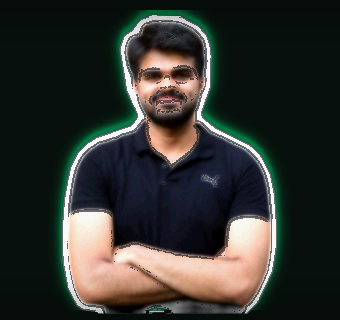
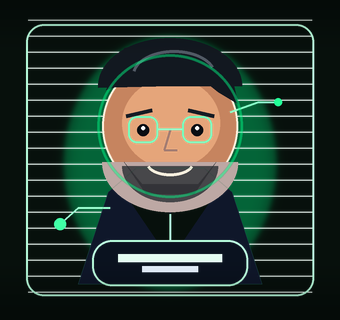
Changes by Yudhveer 5

diff --git a/scripts/generate_terminal.py b/scripts/generate_terminal.py
@@ -13,7 +13,7 @@ from io import BytesIO
 from pathlib import Path
 
 import numpy as np
-from PIL import Image, ImageChops, ImageEnhance, ImageFilter, ImageOps
+from PIL import Image, ImageChops, ImageDraw, ImageEnhance, ImageFilter, ImageOps
 
 
 ROOT = Path(__file__).resolve().parents[1]
@@ -146,81 +146,94 @@ def crop_to_ascii_portrait(image: Image.Image) -> Image.Image:
     return image.crop(box)
 
 
-def load_avatar_source() -> Image.Image:
-    if AVATAR_SOURCE_PATH.exists():
-        return Image.open(AVATAR_SOURCE_PATH).convert("RGBA")
-    return load_photo(IMAGE_PATH)
+def make_terminal_portrait() -> Image.Image:
+    """Draw a fictional illustrated avatar instead of reusing the real photo."""
+    scale = 3
+    canvas = Image.new("RGBA", (340 * scale, 320 * scale), (7, 16, 12, 255))
 
+    def box(values: tuple[int, int, int, int]) -> tuple[int, int, int, int]:
+        return tuple(value * scale for value in values)
 
-def remove_flat_background(image: Image.Image) -> Image.Image:
-    rgb = image.convert("RGB")
-    arr = np.asarray(rgb).astype(np.int16)
-    corners = np.array(
-        [
-            arr[0, 0],
-            arr[0, -1],
-            arr[-1, 0],
-            arr[-1, -1],
-        ]
-    )
-    key = np.median(corners, axis=0)
-    distance = np.sqrt(((arr - key) ** 2).sum(axis=2))
-    alpha = np.where(distance < 55, 0, 255).astype(np.uint8)
-    alpha_img = Image.fromarray(alpha, "L")
-    alpha_img = alpha_img.filter(ImageFilter.MedianFilter(5))
-    alpha_img = alpha_img.filter(ImageFilter.GaussianBlur(0.8))
+    def pts(values: list[tuple[int, int]]) -> list[tuple[int, int]]:
+        return [(x * scale, y * scale) for x, y in values]
 
-    out = image.copy()
-    out.putalpha(alpha_img)
-    return crop_to_subject(out)
-
-
-def stylize_avatar(subject: Image.Image) -> Image.Image:
-    alpha = subject.getchannel("A")
-    rgb = subject.convert("RGB")
-    smooth = rgb.filter(ImageFilter.SMOOTH_MORE).filter(ImageFilter.SMOOTH_MORE)
-    smooth = ImageEnhance.Color(smooth).enhance(1.15)
-    smooth = ImageEnhance.Contrast(smooth).enhance(1.12)
-    poster = ImageOps.posterize(smooth, 5).convert("RGBA")
-
-    edges = smooth.convert("L").filter(ImageFilter.FIND_EDGES)
-    edges = ImageOps.autocontrast(edges).point(lambda value: 150 if value > 42 else 0)
-    edge_layer = Image.new("RGBA", subject.size, (5, 12, 18, 0))
-    edge_layer.putalpha(edges)
-
-    poster.putalpha(alpha)
-    avatar = Image.alpha_composite(poster, edge_layer)
-    avatar.putalpha(alpha)
-    return avatar
-
-
-def make_terminal_portrait(image: Image.Image) -> Image.Image:
-    subject = remove_flat_background(image)
-    subject = ImageOps.contain(subject, (300, 300), Image.Resampling.LANCZOS)
-    subject = stylize_avatar(subject)
-
-    canvas = Image.new("RGBA", (340, 320), (7, 16, 12, 255))
-    for radius, opacity in ((120, 35), (70, 45), (35, 55)):
-        glow = Image.new("RGBA", canvas.size, (0, 255, 136, 0))
-        alpha = Image.new("L", subject.size, 0)
-        alpha.paste(subject.getchannel("A"))
-        alpha = alpha.filter(ImageFilter.GaussianBlur(radius / 16))
-        glow_subject = Image.new("RGBA", subject.size, (0, 255, 136, opacity))
-        glow_subject.putalpha(alpha.point(lambda value: min(opacity, value // 3)))
-        glow.alpha_composite(glow_subject, ((canvas.width - subject.width) // 2, (canvas.height - subject.height) // 2))
+    # Terminal panel glow and subtle scanlines.
+    for radius, alpha in ((120, 26), (72, 34), (34, 42)):
+        glow = Image.new("RGBA", canvas.size, (0, 0, 0, 0))
+        glow_draw = ImageDraw.Draw(glow, "RGBA")
+        glow_draw.ellipse(box((62, 34, 278, 292)), fill=(0, 255, 136, alpha))
+        glow = glow.filter(ImageFilter.GaussianBlur(radius * scale // 12))
         canvas = Image.alpha_composite(canvas, glow)
 
-    x = (canvas.width - subject.width) // 2
-    y = (canvas.height - subject.height) // 2 + 4
-    canvas.alpha_composite(subject, (x, y))
+    draw = ImageDraw.Draw(canvas, "RGBA")
 
-    vignette_alpha = Image.new("L", canvas.size, 0)
-    vignette_alpha.paste(90, (0, 0, canvas.width, 18))
-    vignette_alpha.paste(70, (0, canvas.height - 22, canvas.width, canvas.height))
-    vignette_alpha = vignette_alpha.filter(ImageFilter.GaussianBlur(18))
+    for y in range(20, 304, 16):
+        draw.line((28 * scale, y * scale, 312 * scale, y * scale), fill=(0, 255, 136, 12), width=1 * scale)
+    draw.rounded_rectangle(box((26, 24, 314, 296)), radius=18 * scale, outline=(0, 255, 136, 70), width=2 * scale)
+
+    # Body and shoulders: original animated AI engineer, not a photo trace.
+    draw.polygon(
+        pts([(78, 284), (108, 192), (136, 168), (204, 168), (232, 192), (262, 284)]),
+        fill=(15, 23, 42, 255),
+        outline=(41, 63, 83, 255),
+    )
+    draw.polygon(pts([(119, 185), (170, 260), (221, 185), (204, 174), (170, 214), (136, 174)]), fill=(7, 16, 12, 255))
+    draw.line(pts([(170, 214), (170, 286)]), fill=(0, 255, 136, 80), width=2 * scale)
+    draw.rounded_rectangle(box((92, 240, 248, 286)), radius=20 * scale, fill=(10, 18, 31, 255), outline=(0, 255, 136, 70), width=2 * scale)
+    draw.rectangle(box((118, 254, 222, 262)), fill=(0, 255, 136, 24))
+    draw.rectangle(box((142, 266, 198, 272)), fill=(88, 166, 255, 36))
+
+    # Neck and face.
+    skin = (198, 132, 95, 255)
+    skin_light = (229, 165, 122, 255)
+    shadow = (101, 53, 44, 110)
+    draw.rounded_rectangle(box((150, 151, 190, 190)), radius=12 * scale, fill=(166, 98, 76, 255))
+    draw.ellipse(box((102, 58, 238, 194)), fill=skin, outline=(255, 234, 206, 180), width=2 * scale)
+    draw.ellipse(box((122, 78, 220, 168)), fill=skin_light)
+    draw.pieslice(box((102, 112, 238, 212)), 0, 180, fill=shadow)
+
+    # Hair, eyebrows, eyes, beard, and smile in cartoon proportions.
+    hair = (18, 24, 32, 255)
+    hair_hi = (55, 65, 78, 220)
+    draw.pieslice(box((98, 38, 242, 134)), 178, 360, fill=hair)
+    draw.polygon(pts([(106, 90), (124, 48), (154, 40), (196, 42), (230, 68), (238, 104), (218, 92), (198, 76), (162, 70), (130, 82)]), fill=hair)
+    draw.arc(box((132, 50, 216, 100)), 190, 340, fill=hair_hi, width=3 * scale)
+    draw.line(pts([(126, 116), (152, 110)]), fill=(21, 27, 36, 255), width=4 * scale)
+    draw.line(pts([(188, 110), (214, 116)]), fill=(21, 27, 36, 255), width=4 * scale)
+    draw.ellipse(box((137, 124, 149, 136)), fill=(8, 13, 18, 255))
+    draw.ellipse(box((191, 124, 203, 136)), fill=(8, 13, 18, 255))
+    draw.ellipse(box((141, 126, 145, 130)), fill=(255, 255, 255, 210))
+    draw.ellipse(box((195, 126, 199, 130)), fill=(255, 255, 255, 210))
+    draw.line(pts([(170, 130), (164, 150), (177, 150)]), fill=(122, 68, 55, 180), width=2 * scale)
+    draw.pieslice(box((122, 130, 218, 202)), 0, 180, fill=(31, 31, 35, 210))
+    draw.polygon(pts([(124, 162), (146, 194), (194, 194), (216, 162), (198, 184), (142, 184)]), fill=(30, 30, 34, 230))
+    draw.arc(box((146, 150, 194, 176)), 18, 162, fill=(246, 238, 220, 230), width=3 * scale)
+
+    # Glasses and small circuit accents make it character-like and techy.
+    draw.rounded_rectangle(box((128, 116, 158, 143)), radius=9 * scale, outline=(0, 255, 136, 140), width=2 * scale)
+    draw.rounded_rectangle(box((182, 116, 212, 143)), radius=9 * scale, outline=(0, 255, 136, 140), width=2 * scale)
+    draw.line(pts([(158, 129), (182, 129)]), fill=(0, 255, 136, 120), width=2 * scale)
+    draw.line(pts([(230, 112), (258, 102), (276, 102)]), fill=(0, 255, 136, 120), width=2 * scale)
+    draw.ellipse(box((274, 98, 282, 106)), fill=(0, 255, 136, 220))
+    draw.line(pts([(110, 208), (78, 208), (60, 224)]), fill=(0, 255, 136, 100), width=2 * scale)
+    draw.ellipse(box((54, 218, 66, 230)), fill=(0, 255, 136, 190))
+
+    # Crisp cartoon outline.
+    outline = Image.new("RGBA", canvas.size, (0, 0, 0, 0))
+    outline_draw = ImageDraw.Draw(outline, "RGBA")
+    outline_draw.ellipse(box((97, 54, 243, 198)), outline=(0, 255, 136, 120), width=3 * scale)
+    outline_draw.polygon(pts([(78, 284), (108, 192), (136, 168), (204, 168), (232, 192), (262, 284)]), outline=(0, 255, 136, 120))
+    canvas = Image.alpha_composite(canvas, outline.filter(ImageFilter.GaussianBlur(0.25 * scale)))
+
     vignette = Image.new("RGBA", canvas.size, (0, 0, 0, 0))
+    vignette_alpha = Image.new("L", canvas.size, 0)
+    ImageDraw.Draw(vignette_alpha).rectangle(box((0, 0, 340, 24)), fill=90)
+    ImageDraw.Draw(vignette_alpha).rectangle(box((0, 288, 340, 320)), fill=85)
+    vignette_alpha = vignette_alpha.filter(ImageFilter.GaussianBlur(16 * scale))
     vignette.putalpha(vignette_alpha)
-    return Image.alpha_composite(canvas, vignette)
+    canvas = Image.alpha_composite(canvas, vignette)
+
+    return canvas.resize((340, 320), Image.Resampling.LANCZOS)
 
 
 def image_to_data_uri(image: Image.Image) -> str:
@@ -420,7 +433,7 @@ def build_svg(ascii_art: str, profile: Profile, stats: dict[str, str], portrait_
 
     return f'''<svg width="{SVG_WIDTH}" height="{SVG_HEIGHT}" viewBox="0 0 {SVG_WIDTH} {SVG_HEIGHT}" fill="none" xmlns="http://www.w3.org/2000/svg" role="img" aria-labelledby="title desc">
   <title id="title">{esc(profile.name)} terminal profile</title>
-  <desc id="desc">Generated terminal-style GitHub profile with ASCII portrait and system information.</desc>
+  <desc id="desc">Generated terminal-style GitHub profile with an illustrated character avatar and system information.</desc>
   <defs>
     <linearGradient id="terminalBg" x1="0" y1="0" x2="1" y2="1">
       <stop offset="0%" stop-color="#080c10"/>
@@ -464,7 +477,7 @@ def build_svg(ascii_art: str, profile: Profile, stats: dict[str, str], portrait_
   <rect x="{ascii_panel_x}" y="{ascii_panel_y}" width="360" height="{ascii_panel_height}" rx="12" fill="#07100c" stroke="#1d2b24"/>
   <image x="58" y="108" width="336" height="320" href="{portrait_uri}" clip-path="url(#portraitClip)" preserveAspectRatio="xMidYMid meet"/>
   <rect x="58" y="108" width="336" height="320" rx="10" fill="none" stroke="#00ff88" stroke-opacity="0.25"/>
-  <text x="70" y="416" class="mono muted" font-size="12">animated avatar from assets/avatar-source.png</text>
+  <text x="70" y="416" class="mono muted" font-size="12">illustrated AI avatar generated by script</text>
 
   <text x="448" y="126" class="mono cmd">$ whoami</text>
   <text x="448" y="166" class="mono title">{esc(profile.name)}</text>
@@ -687,7 +700,7 @@ I build AI-powered products across the full stack, connecting machine learning s
 def write_project_context() -> None:
     content = f"""# GitHub Profile Terminal Project
 
-This repository generates a terminal-style GitHub profile from `assets/YudhveerP.jpg`.
+This repository generates a terminal-style GitHub profile with an illustrated AI avatar and automated profile assets.
 
 ## Source Of Truth
 
@@ -701,13 +714,14 @@ python scripts/generate_terminal.py
 
 ## Pipeline
 
-1. Read `assets/YudhveerP.jpg`
+1. Read `assets/YudhveerP.jpg` for the generated ASCII text asset
 2. Remove plain background, or use `rembg` automatically if installed
 3. Crop subject
 4. Apply histogram equalization, contrast enhancement, sharpening, noise reduction, and edge emphasis
 5. Generate `assets/ascii.txt`
-6. Build `assets/terminal.svg`
-7. Update `README.md` with the full premium profile layout and generated terminal centerpiece
+6. Draw `assets/animated-avatar.png` as a fictional illustrated AI character
+7. Build `assets/terminal.svg`
+8. Update `README.md` with the full premium profile layout and generated terminal centerpiece
 
 ## Profile
 
@@ -739,7 +753,7 @@ def main() -> None:
     photo = load_photo(IMAGE_PATH)
     ascii_art = image_to_ascii(photo)
     ASCII_PATH.write_text(ascii_art, encoding="utf-8")
-    portrait = make_terminal_portrait(load_avatar_source())
+    portrait = make_terminal_portrait()
     PORTRAIT_PATH.write_bytes(image_to_png_bytes(portrait))
 
     stats = fetch_github_stats(profile.username)

diff --git a/PROJECT_CONTEXT.md b/PROJECT_CONTEXT.md
@@ -1,6 +1,6 @@
 # GitHub Profile Terminal Project
 
-This repository generates a terminal-style GitHub profile from `assets/YudhveerP.jpg`.
+This repository generates a terminal-style GitHub profile with an illustrated AI avatar and automated profile assets.
 
 ## Source Of Truth
 
@@ -14,13 +14,14 @@ python scripts/generate_terminal.py
 
 ## Pipeline
 
-1. Read `assets/YudhveerP.jpg`
+1. Read `assets/YudhveerP.jpg` for the generated ASCII text asset
 2. Remove plain background, or use `rembg` automatically if installed
 3. Crop subject
 4. Apply histogram equalization, contrast enhancement, sharpening, noise reduction, and edge emphasis
 5. Generate `assets/ascii.txt`
-6. Build `assets/terminal.svg`
-7. Update `README.md` with the full premium profile layout and generated terminal centerpiece
+6. Draw `assets/animated-avatar.png` as a fictional illustrated AI character
+7. Build `assets/terminal.svg`
+8. Update `README.md` with the full premium profile layout and generated terminal centerpiece
 
 ## Profile
 
